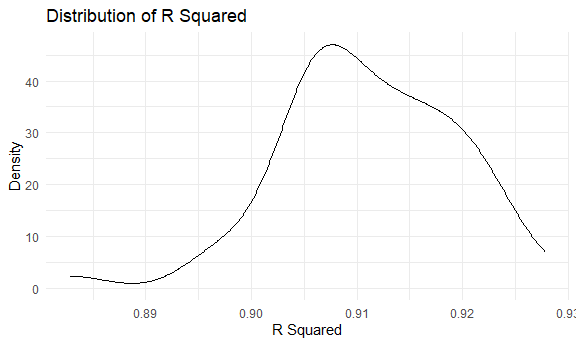
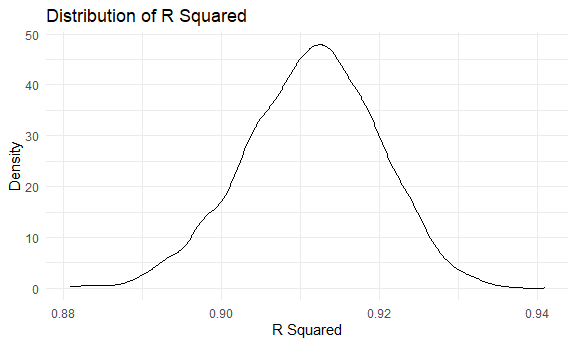
problem 2 description

diff --git a/p8105_hw6_jz3425.md b/p8105_hw6_jz3425.md
@@ -145,8 +145,8 @@ tests.
 
 ### Testing for pairwise relationship
 
-Among chosen variables, it seems that some of them may have strong
-linear associasions. Here are some of apparent ones that I find.
+Among chosen variables, it seems that some of them have strong linear
+associasions. Here are some of apparent ones that I find.
 
 ``` r
 bwt_df %>% 
@@ -318,16 +318,16 @@ cv_df
     ## # A tibble: 100 x 9
     ##    train                   test     .id   lm_1  lm_2  lm_3  rmse_1 rmse_2 rmse_3
     ##    <list>                  <list>   <chr> <lis> <lis> <lis>  <dbl>  <dbl>  <dbl>
-    ##  1 <resample [3,473 x 18]> <resamp~ 001   <lm>  <lm>  <lm>    330.   336.   286.
-    ##  2 <resample [3,473 x 18]> <resamp~ 002   <lm>  <lm>  <lm>    332.   333.   286.
-    ##  3 <resample [3,473 x 18]> <resamp~ 003   <lm>  <lm>  <lm>    361.   362.   301.
-    ##  4 <resample [3,473 x 18]> <resamp~ 004   <lm>  <lm>  <lm>    319.   316.   275.
-    ##  5 <resample [3,473 x 18]> <resamp~ 005   <lm>  <lm>  <lm>    320.   324.   283.
-    ##  6 <resample [3,473 x 18]> <resamp~ 006   <lm>  <lm>  <lm>    335.   339.   295.
-    ##  7 <resample [3,473 x 18]> <resamp~ 007   <lm>  <lm>  <lm>    324.   324.   281.
-    ##  8 <resample [3,473 x 18]> <resamp~ 008   <lm>  <lm>  <lm>    325.   336.   296.
-    ##  9 <resample [3,473 x 18]> <resamp~ 009   <lm>  <lm>  <lm>    312.   315.   275.
-    ## 10 <resample [3,473 x 18]> <resamp~ 010   <lm>  <lm>  <lm>    320.   331.   284.
+    ##  1 <resample [3,473 x 18]> <resamp~ 001   <lm>  <lm>  <lm>    325.   324.   290.
+    ##  2 <resample [3,473 x 18]> <resamp~ 002   <lm>  <lm>  <lm>    328.   328.   296.
+    ##  3 <resample [3,473 x 18]> <resamp~ 003   <lm>  <lm>  <lm>    315.   324.   285.
+    ##  4 <resample [3,473 x 18]> <resamp~ 004   <lm>  <lm>  <lm>    336.   339.   297.
+    ##  5 <resample [3,473 x 18]> <resamp~ 005   <lm>  <lm>  <lm>    336.   335.   292.
+    ##  6 <resample [3,473 x 18]> <resamp~ 006   <lm>  <lm>  <lm>    331.   334.   288.
+    ##  7 <resample [3,473 x 18]> <resamp~ 007   <lm>  <lm>  <lm>    330.   332.   292.
+    ##  8 <resample [3,473 x 18]> <resamp~ 008   <lm>  <lm>  <lm>    326.   330.   292.
+    ##  9 <resample [3,473 x 18]> <resamp~ 009   <lm>  <lm>  <lm>    332.   338.   303.
+    ## 10 <resample [3,473 x 18]> <resamp~ 010   <lm>  <lm>  <lm>    324.   322.   287.
     ## # ... with 90 more rows
 
 ``` r
@@ -365,40 +365,21 @@ weather_df =
   select(name, id, everything())
 ```
 
-    ## Registered S3 method overwritten by 'hoardr':
-    ##   method           from
-    ##   print.cache_info httr
-
-    ## using cached file: C:\Users\zjb_v\AppData\Local/Cache/R/noaa_ghcnd/USW00094728.dly
-
-    ## date created (size, mb): 2021-09-10 12:36:05 (7.614)
-
-    ## file min/max dates: 1869-01-01 / 2021-09-30
+Bootstrap
 
 ``` r
 boot_sample = function(df){
   sample_frac(df, replace = TRUE)
 }
-```
 
-Bootstrap
-
-``` r
-set.seed(518)
+set.seed(1015)
 
 boot_straps =
   data_frame(
-    strap_number = 1:50,
-    strap_sample = rerun(50, boot_sample(weather_df))
+    strap_number = 1:5000,
+    strap_sample = rerun(5000, boot_sample(weather_df))
   )
-```
 
-    ## Warning: `data_frame()` was deprecated in tibble 1.1.0.
-    ## Please use `tibble()` instead.
-    ## This warning is displayed once every 8 hours.
-    ## Call `lifecycle::last_lifecycle_warnings()` to see where this warning was generated.
-
-``` r
 bootstrap_results = 
   boot_straps %>% 
   mutate(
@@ -411,34 +392,6 @@ bootstrap_results =
   select(strap_number, r.squared, term, estimate) %>% 
   janitor::clean_names()
 ```
-
-    ## Warning: unnest() has a new interface. See ?unnest for details.
-    ## Try `df %>% unnest(c(results_1, results_2))`, with `mutate()` if needed
-
-    ## Warning in FUN(X[[i]], ...): strings not representable in native encoding will
-    ## be translated to UTF-8
-
-    ## Warning in FUN(X[[i]], ...): unable to translate '<U+00C4>' to native encoding
-
-    ## Warning in FUN(X[[i]], ...): unable to translate '<U+00D6>' to native encoding
-
-    ## Warning in FUN(X[[i]], ...): unable to translate '<U+00E4>' to native encoding
-
-    ## Warning in FUN(X[[i]], ...): unable to translate '<U+00F6>' to native encoding
-
-    ## Warning in FUN(X[[i]], ...): unable to translate '<U+00DF>' to native encoding
-
-    ## Warning in FUN(X[[i]], ...): unable to translate '<U+00C6>' to native encoding
-
-    ## Warning in FUN(X[[i]], ...): unable to translate '<U+00E6>' to native encoding
-
-    ## Warning in FUN(X[[i]], ...): unable to translate '<U+00D8>' to native encoding
-
-    ## Warning in FUN(X[[i]], ...): unable to translate '<U+00F8>' to native encoding
-
-    ## Warning in FUN(X[[i]], ...): unable to translate '<U+00C5>' to native encoding
-
-    ## Warning in FUN(X[[i]], ...): unable to translate '<U+00E5>' to native encoding
 
 Plot
 
@@ -479,31 +432,32 @@ tibble(b0, b1) %>%
 
 <img src="p8105_hw6_jz3425_files/figure-gfm/unnamed-chunk-12-2.png" width="90%" />
 
+The distribution of R Squared is close to a normal distribution, with μ
+≈ 0.91, which means a good fit and there are about 91% of the data fit
+the regression model.
+
+The distribution of log(β0 \* β1) is also close to a normal
+distribution, with μ ≈ 2.02.
+
 Compute CI
 
 ``` r
-bootstrap_results %>% 
+r_squared_ci =
+  bootstrap_results %>% 
   filter(term == "tmin") %>% 
   summarize(
     ci_lower = quantile(r_squared, 0.025),
     ci_upper = quantile(r_squared, 0.975)
   )
-```
 
-    ## # A tibble: 1 x 2
-    ##   ci_lower ci_upper
-    ##      <dbl>    <dbl>
-    ## 1    0.896    0.923
-
-``` r
-tibble(b0, b1) %>% 
+log_ci =
+  tibble(b0, b1) %>% 
   summarize(
     ci_lower = quantile(log(b0 * b1), 0.025),
     ci_upper = quantile(log(b0 * b1), 0.975)
   )
 ```
 
-    ## # A tibble: 1 x 2
-    ##   ci_lower ci_upper
-    ##      <dbl>    <dbl>
-    ## 1     1.97     2.06
+The 95% confidence interval for R Squared is \[0.894, 0.927\].
+
+The 95% confidence interval for log(β0 \* β1) is \[1.966, 2.061\].
